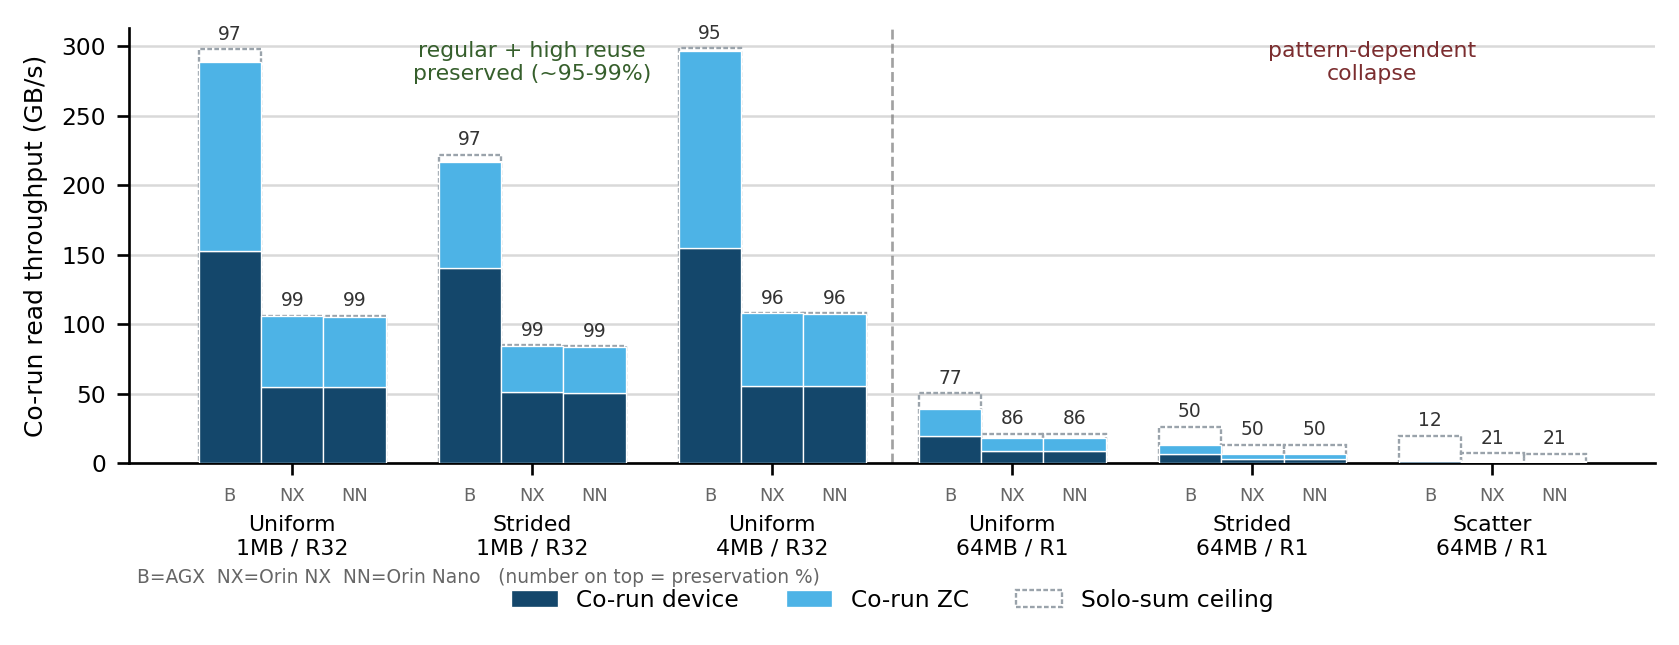
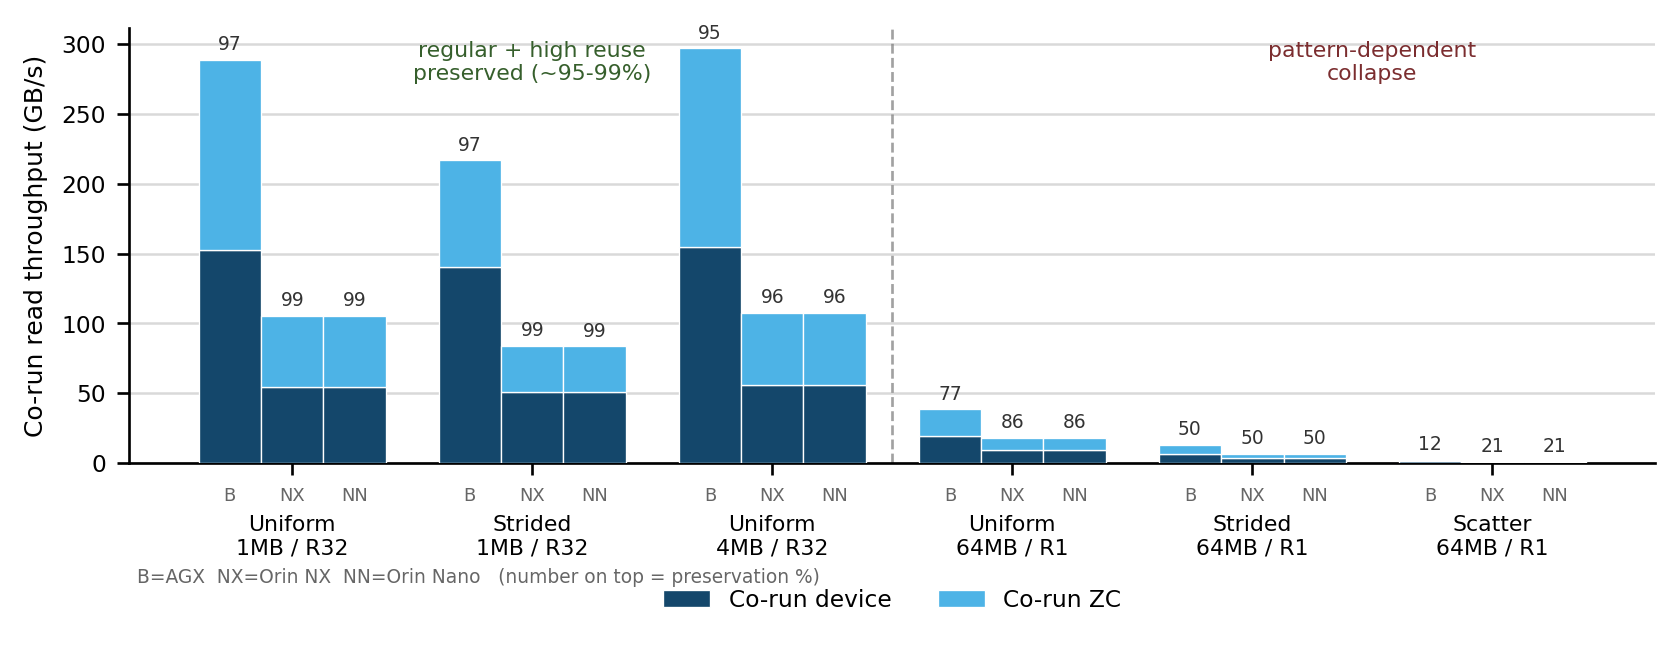
Drop solo-sum ceiling from cross-platform Fig.2
Remove the dashed ceiling bars for a cleaner look; preservation % now sits
on top of each co-run stacked bar. Legend reduced to device/ZC.

diff --git a/experiments/green_spatter_gc/analysis/plot_fig2_cross_platform.py b/experiments/green_spatter_gc/analysis/plot_fig2_cross_platform.py
@@ -88,18 +88,14 @@ def main():
 
     fig, ax = plt.subplots(figsize=(7.15, 2.9), dpi=240)
 
-    dev_handle = zc_handle = ceil_handle = None
+    dev_handle = zc_handle = None
     for bi, (board, _) in enumerate(BOARDS):
         xs = x + offsets[bi]
         dev = np.array([data[board][c]["dev_co"] for c in SELECTED])
         zc = np.array([data[board][c]["zc_co"] for c in SELECTED])
-        ceil = np.array([data[board][c]["solo_sum"] for c in SELECTED])
+        total = dev + zc
         ratio = [data[board][c]["ratio"] for c in SELECTED]
 
-        # solo-sum ceiling (behind, faint outline)
-        ceil_handle = ax.bar(xs, ceil, width=w, facecolor="none",
-                             edgecolor=ceil_color, linewidth=0.7,
-                             linestyle=(0, (2, 1)), zorder=2, label="Solo-sum ceiling")
         # co-run device + ZC
         dev_handle = ax.bar(xs, dev, width=w, color=dev_color,
                            edgecolor="white", linewidth=0.4, zorder=3,
@@ -107,9 +103,9 @@ def main():
         zc_handle = ax.bar(xs, zc, width=w, bottom=dev, color=zc_color,
                           edgecolor="white", linewidth=0.4, zorder=3,
                           label="Co-run ZC")
-        # preservation % on top of ceiling
-        for xi, ci, r in zip(xs, ceil, ratio):
-            ax.text(xi, ci + 4, f"{r:.0f}", ha="center", va="bottom",
+        # preservation % on top of the co-run bar
+        for xi, ti, r in zip(xs, total, ratio):
+            ax.text(xi, ti + 4, f"{r:.0f}", ha="center", va="bottom",
                     fontsize=5.6, color="#333333", rotation=0)
         # board initial under each sub-bar
         for xi in xs:
@@ -131,10 +127,10 @@ def main():
     ax.text(4.5, ax.get_ylim()[1] * 0.97, "pattern-dependent\ncollapse",
             ha="center", va="top", fontsize=6.6, color="#7b2d2f")
 
-    handles = [dev_handle, zc_handle, ceil_handle]
-    labels = ["Co-run device", "Co-run ZC", "Solo-sum ceiling"]
+    handles = [dev_handle, zc_handle]
+    labels = ["Co-run device", "Co-run ZC"]
     ax.legend(handles, labels, loc="upper center", bbox_to_anchor=(0.5, -0.24),
-              ncol=3, frameon=False)
+              ncol=2, frameon=False)
 
     # numbers under bars: which board is which
     ax.text(0.005, -0.24, "B=AGX  NX=Orin NX  NN=Orin Nano   (number on top = preservation %)",